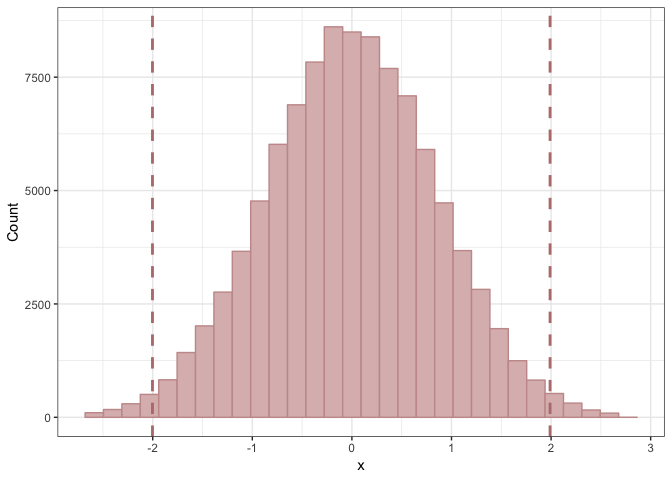
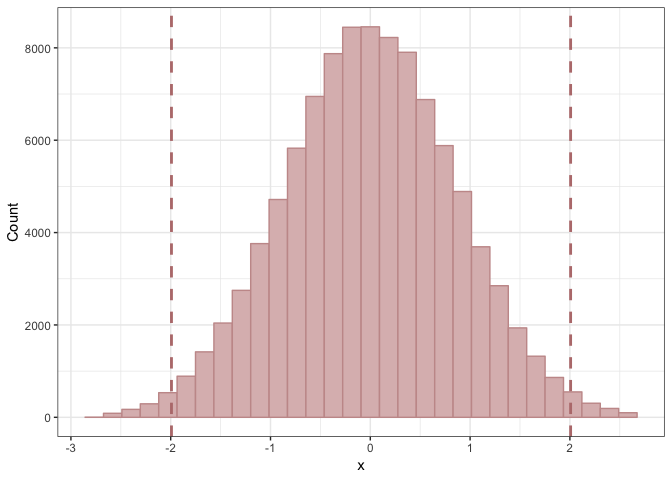
More README updates
Tweaks to get the README file to look nice through the Rmarkdown.Rmd file

diff --git a/README.md b/README.md
@@ -7,10 +7,13 @@ John Helveston
 
 This code uses the algebra solver in [Stan](https://mc-stan.org/) to
 find the parameters of a distribution that produce a desired tail
-behavior. Here’s how to use it: 1. Select a distribution. 2. Define the
-quantile boundaries and the amount of probability density that you wish
-to have above and below those boundaries. 3. Let Stan go find the
-parameters that produce the desired distribution.
+behavior. This can be useful when choosing parameters for prior
+distributions.
+
+Here’s how to use it: 1. Select a distribution. 2. Define the quantile
+boundaries and the amount of probability density that you wish to have
+above and below those boundaries. 3. Let Stan go find the parameters
+that produce the desired distribution.
 
 Check out the `examples.R` file for a few examples.
 
@@ -24,27 +27,10 @@ normal distribution where 98% of the probability density is between (-2,
 2).
 
 First, load the rstan library, tweak some settings, and source the
-`utility.R`
-    file:
+`utility.R` file:
 
 ``` r
 library(rstan)
-```
-
-    ## Loading required package: ggplot2
-
-    ## Loading required package: StanHeaders
-
-    ## Warning: package 'StanHeaders' was built under R version 3.5.2
-
-    ## rstan (Version 2.18.2, GitRev: 2e1f913d3ca3)
-
-    ## For execution on a local, multicore CPU with excess RAM we recommend calling
-    ## options(mc.cores = parallel::detectCores()).
-    ## To avoid recompilation of unchanged Stan programs, we recommend calling
-    ## rstan_options(auto_write = TRUE)
-
-``` r
 # Set auto_write to false because I want to always search from scratch
 rstan_options(auto_write = FALSE)
 options(mc.cores = parallel::detectCores())
@@ -57,13 +43,17 @@ Use the `targets` argument to set these boundaries:
 
 Then use the `tuneParams` function to find the parameters:
 
+``` r
+result = util$tuneParams(distribution='normal', targets)
+```
+
     ## 
     ## SAMPLING FOR MODEL 'model' NOW (CHAIN 1).
     ## Chain 1: Iteration: 1 / 1 [100%]  (Sampling)
     ## Chain 1: 
     ## Chain 1:  Elapsed Time: 0 seconds (Warm-up)
-    ## Chain 1:                2.3e-05 seconds (Sampling)
-    ## Chain 1:                2.3e-05 seconds (Total)
+    ## Chain 1:                2.2e-05 seconds (Sampling)
+    ## Chain 1:                2.2e-05 seconds (Total)
     ## Chain 1:
 
 View the resulting parameters and verify that the quantiles of 10,000
@@ -84,16 +74,13 @@ result$quantiles
 ```
 
     ##        1%       99% 
-    ## -2.002469  1.989895
+    ## -1.992413  2.007378
 
-Finally, view a histogram of the resulting
-    distribution:
+Finally, view a histogram of the resulting distribution:
 
 ``` r
 result$histogram
 ```
-
-    ## `stat_bin()` using `bins = 30`. Pick better value with `binwidth`.
 
 ![](README_files/figure-gfm/unnamed-chunk-5-1.png)<!-- -->
 
